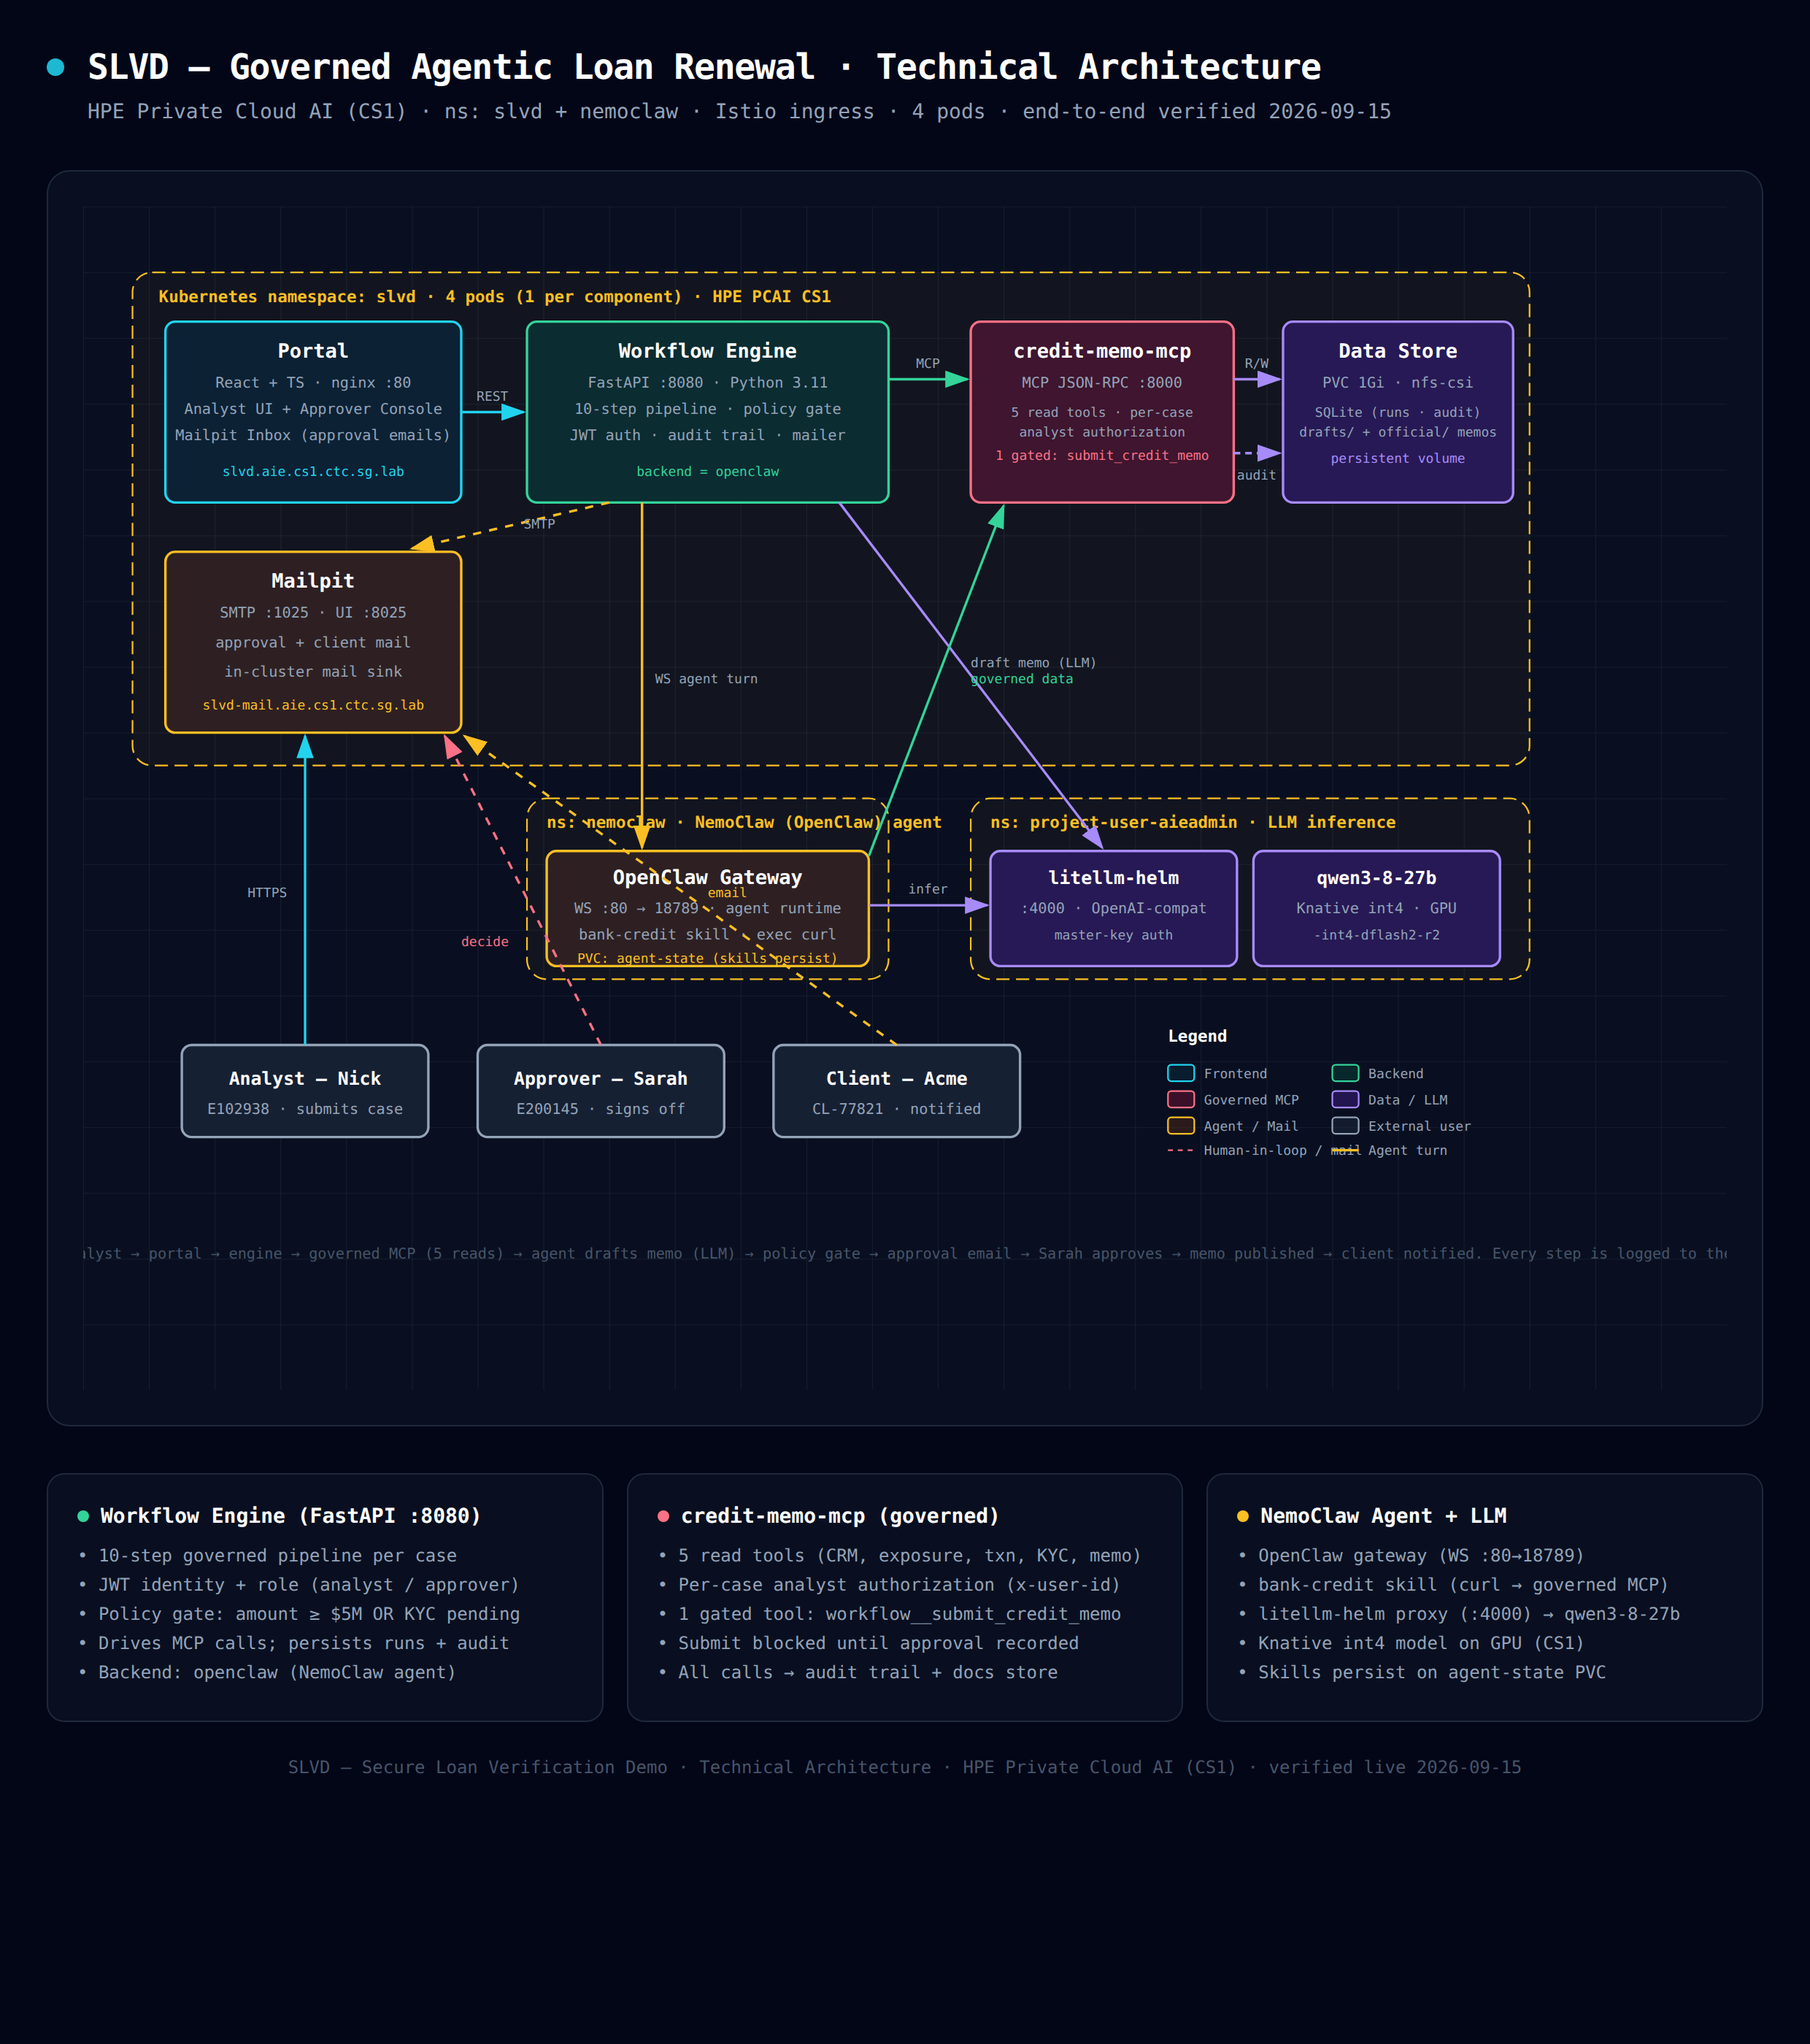
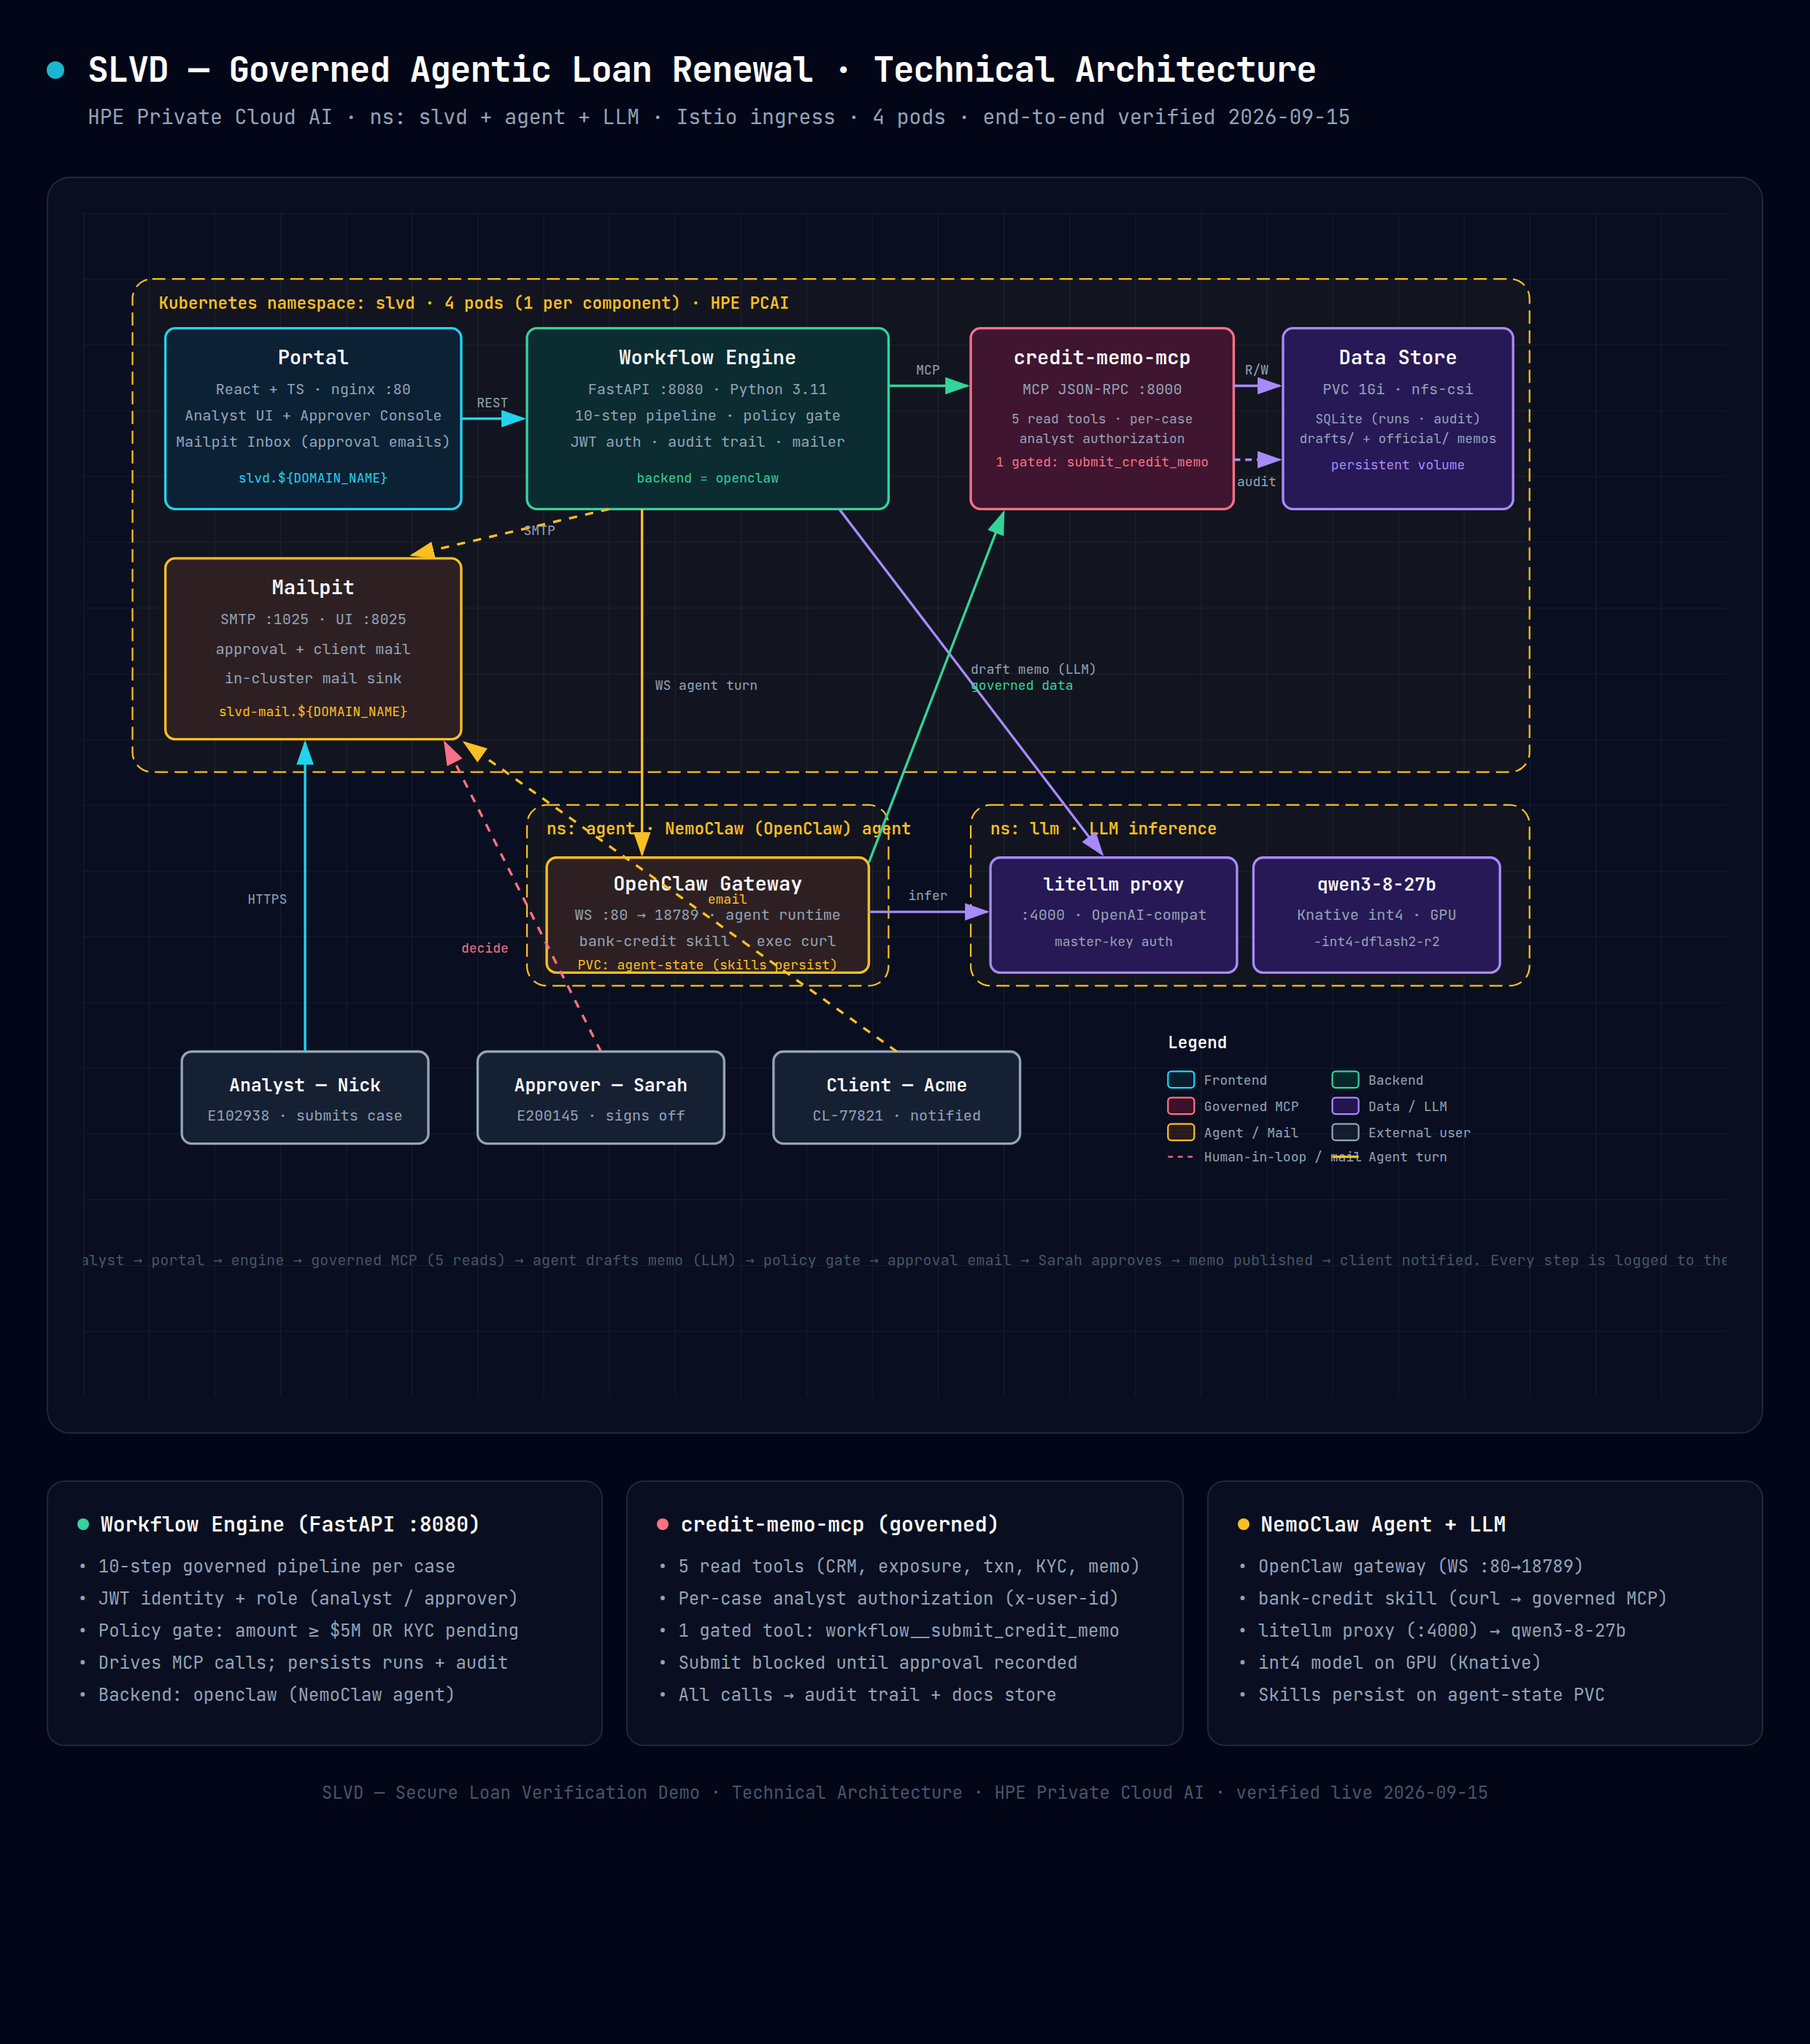
docs: make README + diagrams PCAI-generic (drop CS1-specific wording)
- README: 'Deployment (HPE Private Cloud AI CS1)' -> '(HPE Private Cloud AI)';
  external URLs now shown as slvd.${DOMAIN_NAME} / slvd-mail.${DOMAIN_NAME}
  (Istio VirtualService on the platform ingress gateway) instead of the
  cs1.ctc.sg.lab hosts.
- README: remove the Quick start (local, no cluster) section — this repo is
  aimed at running on PCAI.
- README: technical overview no longer names CS1 namespaces
  (nemoclaw / project-user-aieadmin); agent + LLM described as separate
  in-cluster services configured via chart values.
- README: drop the 'Where' column from the AI layer table; 'Core components
  (ns slvd)' -> 'Core components'.
- Diagrams (technical architecture HTML + regenerated PNG, 2480x2800 @2x):
  subtitle 'HPE Private Cloud AI (CS1)' -> 'HPE Private Cloud AI'; namespace
  labels ns: agent / ns: llm; hosts slvd.${DOMAIN_NAME}; 'litellm-helm' ->
  'litellm proxy'; 'Knative int4 on GPU (CS1)' -> 'int4 model on GPU (Knative)'.
- Business-perspective diagram had no CS1 references — unchanged.

diff --git a/images/slvd-technical-architecture.html b/images/slvd-technical-architecture.html
@@ -36,7 +36,7 @@
         <div class="pulse-dot"></div>
         <h1>SLVD — Governed Agentic Loan Renewal · Technical Architecture</h1>
       </div>
-      <p class="subtitle">HPE Private Cloud AI (CS1) · ns: slvd + nemoclaw · Istio ingress · 4 pods · end-to-end verified 2026-09-15</p>
+      <p class="subtitle">HPE Private Cloud AI · ns: slvd + agent + LLM · Istio ingress · 4 pods · end-to-end verified 2026-09-15</p>
     </div>
 
     <div class="diagram-container">
@@ -54,7 +54,7 @@
 
         <!-- ═══════════ SLVD NAMESPACE ═══════════ -->
         <rect x="30" y="40" width="850" height="300" rx="12" fill="rgba(251,191,36,0.04)" stroke="#fbbf24" stroke-width="1" stroke-dasharray="8,4"/>
-        <text x="46" y="58" fill="#fbbf24" font-size="10" font-weight="600">Kubernetes namespace: slvd  ·  4 pods (1 per component)  ·  HPE PCAI CS1</text>
+        <text x="46" y="58" fill="#fbbf24" font-size="10" font-weight="600">Kubernetes namespace: slvd  ·  4 pods (1 per component)  ·  HPE PCAI</text>
 
         <!-- Portal -->
         <rect x="50" y="70" width="180" height="110" rx="6" fill="#0f172a"/>
@@ -63,7 +63,7 @@
         <text x="140" y="110" fill="#94a3b8" font-size="9" text-anchor="middle">React + TS · nginx :80</text>
         <text x="140" y="126" fill="#94a3b8" font-size="9" text-anchor="middle">Analyst UI + Approver Console</text>
         <text x="140" y="142" fill="#94a3b8" font-size="9" text-anchor="middle">Mailpit Inbox (approval emails)</text>
-        <text x="140" y="164" fill="#22d3ee" font-size="8" text-anchor="middle">slvd.aie.cs1.ctc.sg.lab</text>
+        <text x="140" y="164" fill="#22d3ee" font-size="8" text-anchor="middle">slvd.${DOMAIN_NAME}</text>
 
         <!-- Engine -->
         <rect x="270" y="70" width="220" height="110" rx="6" fill="#0f172a"/>
@@ -99,11 +99,11 @@
         <text x="140" y="250" fill="#94a3b8" font-size="9" text-anchor="middle">SMTP :1025 · UI :8025</text>
         <text x="140" y="268" fill="#94a3b8" font-size="9" text-anchor="middle">approval + client mail</text>
         <text x="140" y="286" fill="#94a3b8" font-size="9" text-anchor="middle">in-cluster mail sink</text>
-        <text x="140" y="306" fill="#fbbf24" font-size="8" text-anchor="middle">slvd-mail.aie.cs1.ctc.sg.lab</text>
+        <text x="140" y="306" fill="#fbbf24" font-size="8" text-anchor="middle">slvd-mail.${DOMAIN_NAME}</text>
 
-        <!-- ═══════════ NEMOCLAW NAMESPACE ═══════════ -->
+        <!-- ═══════════ AGENT NAMESPACE ═══════════ -->
         <rect x="270" y="360" width="220" height="110" rx="12" fill="rgba(251,191,36,0.04)" stroke="#fbbf24" stroke-width="1" stroke-dasharray="8,4"/>
-        <text x="282" y="378" fill="#fbbf24" font-size="10" font-weight="600">ns: nemoclaw  ·  NemoClaw (OpenClaw) agent</text>
+        <text x="282" y="378" fill="#fbbf24" font-size="10" font-weight="600">ns: agent  ·  NemoClaw (OpenClaw) agent</text>
         <rect x="282" y="392" width="196" height="70" rx="6" fill="#0f172a"/>
         <rect x="282" y="392" width="196" height="70" rx="6" fill="rgba(120,53,15,0.3)" stroke="#fbbf24" stroke-width="1.5"/>
         <text x="380" y="412" fill="#fff" font-size="12" font-weight="600" text-anchor="middle">OpenClaw Gateway</text>
@@ -111,12 +111,12 @@
         <text x="380" y="446" fill="#94a3b8" font-size="9" text-anchor="middle">bank-credit skill · exec curl</text>
         <text x="380" y="460" fill="#fbbf24" font-size="8" text-anchor="middle">PVC: agent-state (skills persist)</text>
 
-        <!-- ═══════════ AIEADMIN NAMESPACE (LLM) ═══════════ -->
+        <!-- ═══════════ LLM NAMESPACE ═══════════ -->
         <rect x="540" y="360" width="340" height="110" rx="12" fill="rgba(251,191,36,0.04)" stroke="#fbbf24" stroke-width="1" stroke-dasharray="8,4"/>
-        <text x="552" y="378" fill="#fbbf24" font-size="10" font-weight="600">ns: project-user-aieadmin  ·  LLM inference</text>
+        <text x="552" y="378" fill="#fbbf24" font-size="10" font-weight="600">ns: llm  ·  LLM inference</text>
         <rect x="552" y="392" width="150" height="70" rx="6" fill="#0f172a"/>
         <rect x="552" y="392" width="150" height="70" rx="6" fill="rgba(76,29,149,0.4)" stroke="#a78bfa" stroke-width="1.5"/>
-        <text x="627" y="412" fill="#fff" font-size="11" font-weight="600" text-anchor="middle">litellm-helm</text>
+        <text x="627" y="412" fill="#fff" font-size="11" font-weight="600" text-anchor="middle">litellm proxy</text>
         <text x="627" y="430" fill="#94a3b8" font-size="9" text-anchor="middle">:4000 · OpenAI-compat</text>
         <text x="627" y="446" fill="#94a3b8" font-size="8" text-anchor="middle">master-key auth</text>
         <rect x="712" y="392" width="150" height="70" rx="6" fill="#0f172a"/>
@@ -220,14 +220,14 @@
         <ul>
           <li>• OpenClaw gateway (WS :80→18789)</li>
           <li>• bank-credit skill (curl → governed MCP)</li>
-          <li>• litellm-helm proxy (:4000) → qwen3-8-27b</li>
-          <li>• Knative int4 model on GPU (CS1)</li>
+          <li>• litellm proxy (:4000) → qwen3-8-27b</li>
+          <li>• int4 model on GPU (Knative)</li>
           <li>• Skills persist on agent-state PVC</li>
         </ul>
       </div>
     </div>
 
-    <p class="footer">SLVD — Secure Loan Verification Demo · Technical Architecture · HPE Private Cloud AI (CS1) · verified live 2026-09-15</p>
+    <p class="footer">SLVD — Secure Loan Verification Demo · Technical Architecture · HPE Private Cloud AI · verified live 2026-09-15</p>
   </div>
 </body>
 </html>

diff --git a/README.md b/README.md
@@ -14,7 +14,7 @@ credit officer makes the final call on large or risky cases. Every step is audit
 - **Business readers**: start with [How it works (business view)](#how-it-works-business-view),
   then [Who does what](#who-does-what), then [Why it matters](#why-it-matters).
 - **Technical readers**: jump to [Architecture](#architecture) and
-  [Deployment](#deployment-on-hpe-private-cloud-ai-cs1).
+  [Deployment](#deployment-on-hpe-private-cloud-ai).
 
 Both diagrams below are interactive HTML + static PNG:
 
@@ -70,12 +70,13 @@ analyst (Nick) starts the case. From there:
 
 ### Technical overview
 
-The system runs on **HPE Private Cloud AI (CS1)** as four pods in the `slvd` Kubernetes
-namespace, with the AI agent in `nemoclaw` and the LLM in `project-user-aieadmin`.
+The system runs on **HPE Private Cloud AI (PCAI)** as pods in a dedicated Kubernetes
+namespace (`slvd`), with the AI agent and the LLM as separate in-cluster services whose
+endpoints are configured via chart values.
 
 ![Technical architecture](images/slvd-technical-architecture.png)
 
-**Core components (ns `slvd`):**
+**Core components:**
 
 | Component | Tech | Port | Responsibility |
 |---|---|---|---|
@@ -87,10 +88,10 @@ namespace, with the AI agent in `nemoclaw` and the LLM in `project-user-aieadmin
 
 **AI layer:**
 
-| Component | Where | Responsibility |
-|---|---|---|
-| **OpenClaw agent** (NemoClaw) | ns `nemoclaw` | The generative step — pulls data via the `bank-credit` skill and drafts the memo |
-| **litellm-helm** → **qwen3-8-27b** | ns `project-user-aieadmin` | LLM inference (Knative int4 on GPU) |
+| Component | Responsibility |
+|---|---|
+| **OpenClaw agent** (NemoClaw) | The generative step — pulls data via the `bank-credit` skill and drafts the memo |
+| **litellm proxy** → **qwen3-8-27b** | LLM inference (int4 on GPU) |
 
 ### Why both a FastAPI engine *and* an OpenClaw agent?
 
@@ -160,30 +161,12 @@ secure_loan_verification_demo/
 
 ---
 
-## Quick start (local, no cluster)
+## Deployment (HPE Private Cloud AI)
 
-```bash
-python3 -m venv venv && source venv/bin/activate
-pip install -r source_code/requirements.txt
-cd source_code/portal && npm install && npm run build && cd ../..
-
-make -f source_code/Makefile test-unit      # engine + mcp unit tests (25)
-make -f source_code/Makefile test-e2e       # 8 local simulation scenarios (S1–S8)
-```
-
-In **simulation mode** (`SLVD_SIMULATION=1`, default for the local e2e) the approver auto-approves.
-Set `SLVD_SIMULATION=0` to require a real human decision (the production path).
-
-> **Make note:** the only Makefile lives at `source_code/Makefile` (there is no root
-> wrapper anymore). Run it as `make -f source_code/Makefile <target>`, or `cd source_code`
-> first and use plain `make <target>`. All targets (venv/test/build/chart/deploy/…) already
-> resolve paths relative to the repo root, so they work from either location.
-
----
-
-## Deployment (HPE Private Cloud AI CS1)
-
-The demo is deployed as a BYOA **EzAppConfig** (the CS1 platform install trigger).
+The demo is deployed as a BYOA **EzAppConfig** (the PCAI platform install trigger).
+Chart values are platform-agnostic: hosts use `${DOMAIN_NAME}` (substituted by the
+EzAppConfig controller), and the agent/LLM endpoints are plain in-cluster service URLs
+set in `charts/slvd/values.yaml` (`SLVD_OPENCLAW_URL`, `SLVD_LLM_BASE_URL`).
 
 ```bash
 make -f source_code/Makefile venv
@@ -195,12 +178,18 @@ make -f source_code/Makefile verify              # external URL + agent + LLM he
 make -f source_code/Makefile demo-run            # one fresh end-to-end run via the portal API
 ```
 
-- **External URLs** (Istio VirtualService on `istio-system/ezaf-gateway`):
-  - Portal: `https://slvd.aie.cs1.ctc.sg.lab`
-  - Mail:   `https://slvd-mail.aie.cs1.ctc.sg.lab`
+> **Make note:** the only Makefile lives at `source_code/Makefile` (there is no root
+> wrapper anymore). Run it as `make -f source_code/Makefile <target>`, or `cd source_code`
+> first and use plain `make <target>`. All targets (venv/test/build/chart/deploy/…) already
+> resolve paths relative to the repo root, so they work from either location.
+
+- **External URLs**: an Istio VirtualService on the platform ingress gateway
+  (`istio-system/ezaf-gateway`) exposes
+  - Portal: `https://slvd.${DOMAIN_NAME}`
+  - Mail:   `https://slvd-mail.${DOMAIN_NAME}`
 - **Pods**: exactly 4 (1 per component) — portal, engine, credit-memo-mcp, mailpit.
-- **Agent backend**: `SLVD_AGENT_BACKEND=openclaw` → the NemoClaw gateway in ns `nemoclaw`.
-- **LLM**: `SLVD_LLM_MODEL=qwen3-8-27b-int4-dflash2-r2` via the litellm proxy.
+- **Agent backend**: `SLVD_AGENT_BACKEND=openclaw` → the NemoClaw gateway service.
+- **LLM**: `SLVD_LLM_MODEL` via the litellm proxy at `SLVD_LLM_BASE_URL`.
 
 ### Default users (demo)
 
